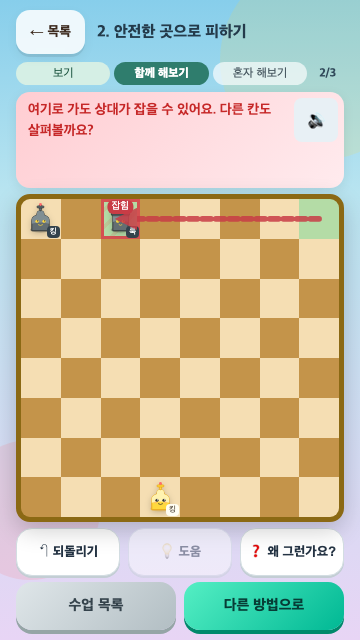
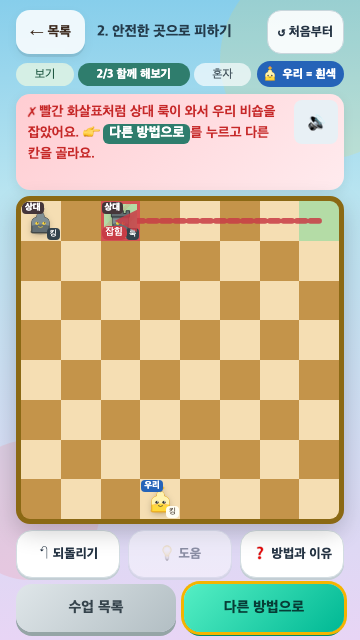
docs: 첫 사용자 확인 뒤 수업 수정 기록, 빌드 2026.11.07.2

diff --git a/js/version.js b/js/version.js
@@ -1,1 +1,1 @@
-globalThis.CHESS_BUILD = '2026.11.07.1';
+globalThis.CHESS_BUILD = '2026.11.07.2';

diff --git a/docs/lessons/IMPLEMENTATION_PROGRESS.md b/docs/lessons/IMPLEMENTATION_PROGRESS.md
@@ -138,7 +138,49 @@
 
 3개 수업에서 자발적 사용과 학습 전이를 확인하기 전에는 유료 과정 제작·가격 실험을 시작하지 않는다(명세 §11).
 
-## 6. 커밋
+## 6. 첫 사용자 확인 뒤 수정 · 빌드 `2026.11.07.2`
+
+배포 직후 사용자가 실기기로 해본 결과는 다음과 같았다.
+- 무엇을·어떻게 하는지, 내가 흑인지 백인지, 화살표의 말이 누구 것인지 알 수 없었다.
+- 말을 누르면 안내는 나오지만 그다음 무엇을 누를지 몰랐다.
+- 수업을 처음부터 다시 하는 방법을 찾지 못했다.
+- 홈의 버전 글자가 밝은 배경에서 흰색이라 보이지 않았다.
+- 판이 움직이지 않는 것은 확인했다.
+
+자동 검사는 이 문제들을 잡지 못했다(규칙·배치만 검사했다). 고친 것:
+
+- **내 편 표시**: 상단 단계 줄 오른쪽에 늘 `우리 = 흰색` 표시를 두었다. 판의 모든 말에 `우리`(파랑)/`상대`(진한 갈색) 표시를 붙였고, 읽기 프로그램용 칸 설명에도 넣었다.
+- **지금 할 일**
+  - 설명 영역이 단계마다 `👉 다음에 누를 것`을 말한다.
+  - 수업 1: `우리(흰색) 말을 눌러 알려 주세요. 말은 움직이지 않아요`.
+  - 수업 2·3: `① 파란 테두리의 우리 말을 눌러요` → `② 점이 찍힌 칸 중…`.
+  - 결과 뒤에는 무슨 일이 일어났는지(`빨간 화살표처럼 상대 룩이 와서 우리 비숍을 잡았어요`)와 다음 버튼 이름을 함께 적는다.
+  - 다음에 누를 버튼은 노란 테두리로 반짝이고(동작 줄이기에서는 테두리만), 처음 누를 우리 말은 파란 테두리가 깜박인다.
+  - 시범 중이나 결과 뒤에 판을 누르면 다음 할 일을 안내하거나 다음 버튼을 흔들어 보인다.
+- **수업 소개**
+  - 새로 시작한 수업은 먼저 소개 창을 띄운다: 배울 것 / 우리 = 흰색·상대 = 검은색 / 조작 방법 / 세 단계 / 색의 뜻 / 왜 그런가요.
+  - 창에서 `▶ 시범 보기` 또는 `바로 해보기`를 고른다. 이어할 때는 띄우지 않는다.
+  - 도구 줄의 `❓ 왜 그런가요?`는 같은 내용의 `❓ 방법과 이유`로 바꿨다. 명세의 설명 창 계약(초점 가두기, Escape, 응수 정지)은 그대로다.
+- **처음부터 다시**
+  - 수업 화면 위에 `↺ 처음부터`(확인 뒤 시범부터, 해본 기록 유지)를 두었다.
+  - 목록의 진행 중 카드에는 글자 링크 대신 `↺ 처음부터 다시`(왼쪽)·`▶ 이어하기`(오른쪽) 버튼을 둔다.
+- **문구**
+  - 성공·실패 문장에 `우리`/`상대`를 넣었다. 예: `폰은 잡았지만 상대 비숍이 우리 룩을 다시 잡았어요`, `이 칸에서는 상대가 다음 한 수에 우리 비숍을 잡을 수 없어요`.
+  - 명세 §5의 문장을 이 방향으로 고쳤다. 판정 술어와 교재 배치는 바꾸지 않았다.
+- **홈 버전 글자**: 짙은 회청색으로 바꿨다. 같은 규칙이 두 군데 있어 둘 다 고쳤고, 브라우저 검사가 글자색을 확인한다.
+- **화면 치수**
+  - 헤더(제목 두 줄까지 + `↺ 처음부터`)는 44px, 단계 줄은 28px이다.
+  - 360×640에서 모든 조작이 한 화면에 들어오고, 판 좌표 불변 검사도 그대로 통과한다.
+
+검증
+- `npm test` 136/136.
+- `npm run test:browser` 15개 묶음 통과.
+- 수업 브라우저 검사 추가 항목: 소개 창 내용, 시범 중 판 누름 안내, 우리/상대 표시, 결과 뒤 다음 버튼 강조·문구, 수업 안·목록의 처음부터 다시, 버전 글자색.
+- 화면: [소개 창](../product-review/lessons/intro-360x640.png), [수업 2 실패 뒤 안내](../product-review/lessons/escape-retry-360x640.png).
+
+이번 수정으로 이해하기 쉬워졌는지는 사용자 확인이 다시 필요하다.
+
+## 7. 커밋
 
 목적별로 나눴다(명세 §9 순서).
 1. 교재 9장면과 판정 술어

diff --git a/docs/DEVELOPMENT_HANDOFF.md b/docs/DEVELOPMENT_HANDOFF.md
@@ -260,4 +260,5 @@ A-1 홈 직접 진입 (`js/app-home.js`, `js/app-session.js`, `js/app-play.js`, 
 - 기록: [체스 수업 구현 기록](lessons/IMPLEMENTATION_PROGRESS.md) — 변경 파일, 설계와 달라진 점(세션 v5, 토스트 대신 고정 설명 영역), 세부 결정, 검증, 남은 교육 검수·관찰.
 - 진입: 홈 보조 진입 `체스 수업` 카드, 대전 설정의 `체스 수업` 버튼. 홈 주 진입 3개는 그대로.
 - 저장: 세션·백업 v5(수업 자료나 수업 배치 대전이 있을 때만). 예전 앱은 v5 파일을 거절하고, 새 앱은 v1~v4를 계속 읽는다.
-- 다음 후보: 실기기 확인과 명세 §11 관찰, 체스 지도자 검수(기록 §5). 관찰 근거 없이 유료 과정·가격 실험을 시작하지 않는다.
+- 첫 사용자 확인 뒤 수정(빌드 `2026.11.07.2`): 내 편이 어느 색인지, 무엇을 눌러야 하는지, 처음부터 다시 하는 방법을 알 수 없다는 피드백을 반영했다. 우리=흰색 표시·말마다 우리/상대 표시, 단계마다 `👉 지금 누를 것`, 새 수업 소개 창, `↺ 처음부터`, 홈 버전 글자색을 고쳤다. 자세한 내용은 [구현 기록 §6](lessons/IMPLEMENTATION_PROGRESS.md).
+- 다음 후보: 수정본 실기기 재확인과 명세 §11 관찰, 체스 지도자 검수(기록 §5). 관찰 근거 없이 유료 과정·가격 실험을 시작하지 않는다.
